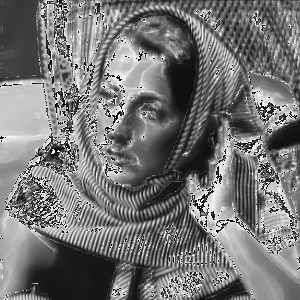
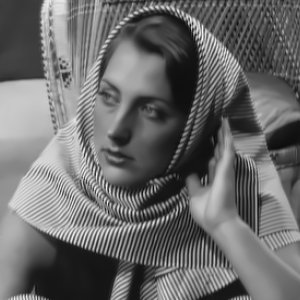
Final bilateral et nl-means

diff --git a/3-filtering/intro/nl-means.cpp b/3-filtering/intro/nl-means.cpp
@@ -8,7 +8,7 @@ using namespace cv;
 using namespace std;
 
 double
-computeTreshDistance(int sigma){
+computeTresh(int sigma){
   //This compute the distance max two pixels of different patchs
   double distanceMax = (-2)*sigma*sigma*log(0.1);
   return distanceMax;
@@ -24,12 +24,10 @@ process(int sigma, const char* imsname, const char* imdname)
     exit(EXIT_FAILURE);
   }
   cout<< "\n############### exercice : nl-means ##############\n"<<endl;
-  //Read the image and display it
+  //Read the image
   Mat ims = imread(imsname, 0);
-  imshow("Initial",ims);
-
   Size s = ims.size();
-  cout<<"Width : "<<s.height<<"  Height : "<<s.width<<endl;
+  cout<<"Wait a minute.. "<<endl;
 
   //Variables declarations and initialization
   Mat imd(s,CV_8UC1);
@@ -37,9 +35,9 @@ process(int sigma, const char* imsname, const char* imdname)
   int patch_radius = 3;
   //According to author the window tall should be 11*11. We can deduce r=5
   int window_radius = 5;
-  double distance_max = computeTreshDistance(sigma)*(2*patch_radius+1)*(2*patch_radius+1);
-  int patchs_sum, sum_w, sum_w_means, pi, pj, qi, qj, Ip, Iq, nb_in_patch=0;
-  double w;
+  double distance_max = computeTresh(sigma)*(2*patch_radius+1)*(2*patch_radius+1);
+  int patchs_sum, pi, pj, qi, qj, Ip, Iq, nb_in_patch=0;
+  double w, sum_w, sum_w_means;
 
   for(int i=0; i<s.height; i++){
     for(int j=0; j<s.width; j++){
@@ -58,8 +56,8 @@ process(int sigma, const char* imsname, const char* imdname)
             for(int u=-patch_radius; u<=patch_radius; u++){
               for(int v=-patch_radius; v<=patch_radius; v++){
                 if(qi+u>=0 && qj+v>=0 && qi+u<s.height && qj+v<s.width){
-                    Ip = ims.at<uchar>(pi+u,pj+v);
-                    Iq = ims.at<uchar>(qi+u,qj+v);
+                    Ip = ims.ptr<uchar>(pi+u)[pj+v];
+                    Iq = ims.ptr<uchar>(qi+u)[qj+v];
                     patchs_sum +=(Ip-Iq)*(Ip-Iq);
                     nb_in_patch+=1;
                 }
@@ -68,17 +66,15 @@ process(int sigma, const char* imsname, const char* imdname)
             if(patchs_sum <= distance_max){
               w = exp((-patchs_sum/nb_in_patch)/(2*sigma*sigma));
               sum_w += w;
-              sum_w_means+=w*ims.at<uchar>(qi,qj);
+              sum_w_means+=w*ims.ptr<uchar>(qi)[qj];
             }
           }
         }
       }
-      imd.at<uchar>(pi,pj)=sum_w_means/sum_w;
+      imd.ptr<uchar>(pi)[pj]=sum_w_means/sum_w;
     }
   }
-  imshow(imdname,imd);
   imwrite(imdname,imd);
-  waitKey(0);
 }
 
 void

diff --git a/3-filtering/intro/bilateral.cpp b/3-filtering/intro/bilateral.cpp
@@ -30,17 +30,16 @@ process(int sigma_s, int sigma_g, const char* imsname, const char* imdname)
     exit(EXIT_FAILURE);
   }
   cout<< "\n############### exercice : bilateral ##############\n"<<endl;
-  //Read the image and display it
+  //Read the image
   Mat ims = imread(imsname, 0);
-  imshow("Initial",ims);
 
   Size s = ims.size();
 
   //Variables declaration and initialization
   Mat imd(s,CV_8UC1);
+  Mat imd_ocv(s,CV_8UC1);
+  Mat diff_imd(s,CV_8UC1);
   int s_distance = distance_computation(sigma_s);
-  cout <<"The distance is"<<s_distance<<endl;
-  // double g_distance_max = distance_computation(sigma_g);
   int p,q,pi,pj,qi,qj,distance_pq=0;
   double sum_num, sum_denom =0;
 
@@ -67,19 +66,22 @@ process(int sigma_s, int sigma_g, const char* imsname, const char* imdname)
             qj=j+m;
             distance_pq = abs(pi-qi)+ abs(pj-qj);
             if( distance_pq<= s_distance){
-              p=ims.at<uchar>(pi,pj);
-              q=ims.at<uchar>(qi,qj);
+              p=ims.ptr<uchar>(pi)[pj];
+              q=ims.ptr<uchar>(qi)[qj];
               sum_num+=Gs_values[distance_pq]*Gc_values[abs(p-q)]*q;
               sum_denom +=Gs_values[distance_pq]*Gc_values[abs(p-q)];
             }
           }
         }
       }
-      imd.at<uchar>(pi,pj)=sum_num/sum_denom;
+      imd.ptr<uchar>(pi)[pj]=sum_num/sum_denom;
     }
   }
   imwrite(imdname,imd);
-
+  bilateralFilter(ims,imd_ocv,s_distance,sigma_g,sigma_s,BORDER_DEFAULT);
+  imshow("res_ocv_method",imd_ocv);
+  diff_imd = imd-imd_ocv;
+  imshow("Difference-bilateral-method",diff_imd);
   waitKey(0);
 
 }

diff --git a/3-filtering/intro/median-filter.cpp b/3-filtering/intro/median-filter.cpp
@@ -20,6 +20,7 @@ process(int r, const char* imsname, const char* imdname)
   cout<< "\n############### exercice : median-filter ##############\n"<<endl;
   //Read the image
   Mat ims = imread(imsname, 0);
+
   Size s = ims.size();
 
   //Initialize variables
@@ -35,13 +36,13 @@ process(int r, const char* imsname, const char* imdname)
       for(int l=-r; l<=r; l++){
         for(int m=-r; m<=r; m++){
           if(i+l>=0 && j+m>=0 && i+l<s.height && j+m<s.width){
-            p_neighbor.push_back(ims.at<uchar>(i+l,j+m));
+            p_neighbor.push_back(ims.ptr<uchar>(i+l)[j+m]);
           }
         }
       }
       size_t n_size = p_neighbor.size();
       if (n_size == 0){
-        median_value = ims.at<uchar>(i,j);
+        median_value = ims.ptr<uchar>(i)[j];
       }
       else{
         sort(p_neighbor.begin(), p_neighbor.end());
@@ -52,7 +53,7 @@ process(int r, const char* imsname, const char* imdname)
           median_value = p_neighbor[n_size / 2];
         }
       }
-      imd.at<uchar>(i,j) = median_value;
+      imd.ptr<uchar>(i)[j] = median_value;
     }
   }
 
@@ -60,12 +61,10 @@ process(int r, const char* imsname, const char* imdname)
 
   medianBlur(ims,imd_median_ocv,2*r+1);
   imshow("res-ocv",imd_median_ocv);
-  imwrite("res-ocv.png",imd_median_ocv);
   waitKey(0);
   diff_median=imd-imd_median_ocv;
   imshow("diff-median-method",diff_median);
   waitKey(0);
-
 
 }
 
